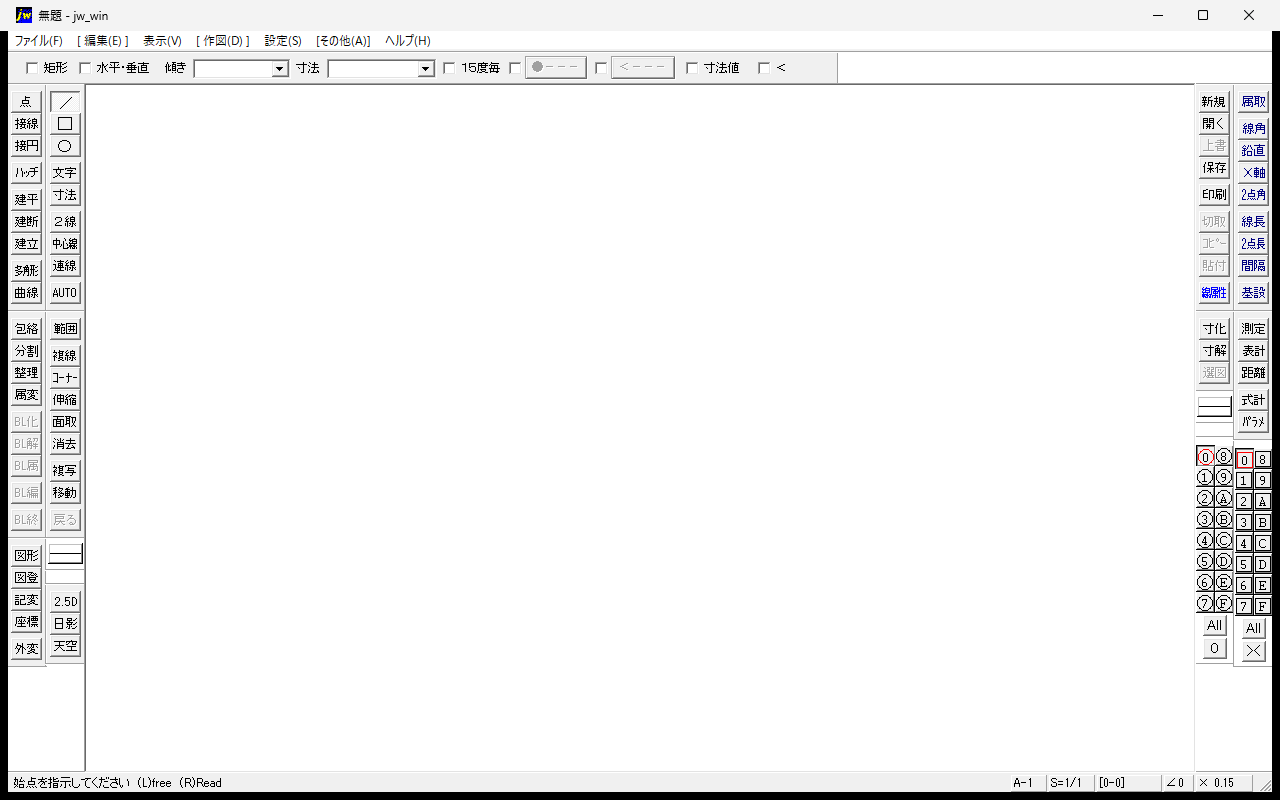
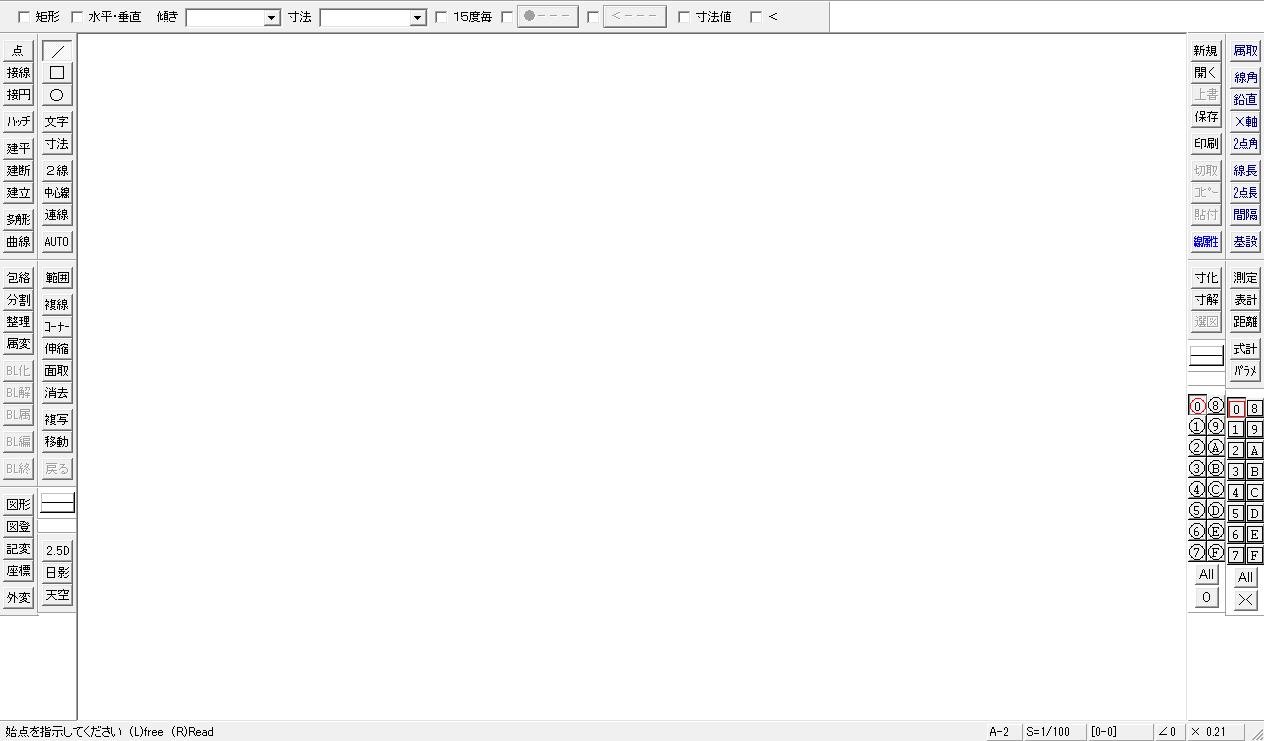
画素一致の正解を GDI 経路に決めて、枠を実測する
Direct2D を切った GDI 経路を基準にする（tools/refcfg.ps1 が
HKCU\Software\Jw_cad\jw_win\View\Direct2d を 0 にする）。D2D のアンチエイリアスと
DirectWrite の字形はブラウザで再現できないので、そちらに合わせるのは無理がある。

基準はクライアント領域 1264×741（tools/shot.ps1 -Client）。タイトルバーと
メニューバーは OS が描く非クライアント領域なので外した。ついでに、窓が
作業領域より高いと画面下端にタスクバーが写り込んでいたのも直した。

実測した枠の座標とシステム色、ツールバーのビットマップの担当（基準 id が
24×15 で +9 の 120×75 まで 10 段）を RESUME に。ボタンの絵は 1 bit の
ビットマップ転送でアンチエイリアスが無いので、フォントを合わせなくても
ツールバーは画素一致する見込み。

Changed region(s): [[0.0, 0.0, 1.0, 1.0]]

diff --git a/RESUME.md b/RESUME.md
@@ -14,7 +14,27 @@
 | 済 | 原典の基準画像（`tools/shot.ps1`、`docs/ref_*.png`） |
 | 済 | 逆コンパイル 25,983 関数 / 99.8% 成功 / 26 MB。クラスごとに仕分け済み |
 | 済 | `CJw_winDoc::Serialize` と `CData*::Serialize` 8 本の位置 |
-| 次 | `.jww` の形を閉じる、枠の再現、描画 |
+| 済 | 画素一致の正解を **Direct2D オフ（GDI）**に決定。基準画像も取り直し済み |
+| 済 | 基準は**クライアント領域** 1264×741（`docs/ref_start.png`）。枠と画布の座標を実測 |
+| 済 | 左右ツールバーのビットマップの担当を特定（下記） |
+| 次 | **枠を描く C を書く**。`src/fb.*`（フレームバッファ）→ `src/ui.*`（枠）→ 画素比較 |
+
+## 明日ここから
+
+**枠（メニュー・ツールバー・ステータスバー）から**、という方針で合意済み。
+`docs/ref_start.png`（クライアント領域 1264×741、Direct2D オフ）が正解です。
+
+順番はこう考えています。
+
+1. `tools/mkres.py` —— `.rsrc` のツールバー帯（4bpp）とレイアウトを C の配列に焼く。
+   生成物は `src/gen/` に置いて **.gitignore**（原典由来なので）。
+2. `src/fb.c/h` —— 32bit のフレームバッファと、矩形塗り・3D 枠・4bpp 転送。
+3. `src/ui.c/h` —— 枠を描く。まず背景・画布の窪み枠・区切り線・ステータスバー、
+   次にボタン。
+4. `tests/frame.c` —— PNG に出す。`tools/cmp.py` で `docs/ref_start.png` と
+   1 画素ずつ比べて不一致数を出す。**この数字を減らしていくのが作業**です。
+
+`tools/cmp.py` はまだありません。最初に書くとよいです。
 
 ## 次にやること
 
@@ -29,10 +49,9 @@
 2. **枠を画素まで合わせる。** メニュー・ツールバー・レイヤバー・ステータスバーは
    リソースにそのまま入っているので、逆コンパイルを待たずに組めます。
    `docs/ref_start.png`（1280×800、図面なし）が正解です。
-3. **描画経路をどちらに合わせるか決める。** 10.x は既定で Direct2D です。
-   移植の正解は **Direct2D を切った GDI 経路**にするのが筋
-   （[設定]→[基本設定]→[一般(1)]）。決定的で、アンチエイリアスを
-   真似しなくて済みます。決めたらこの行を消してください。
+3. **描画経路は Direct2D オフ（GDI）に決定済み。**
+   `tools/refcfg.ps1` が `HKCU\Software\Jw_cad\jw_win\View\Direct2d` を 0 にします。
+   基準画像はこの状態で撮ってあります。
 4. **`CZukei*` を 1 つずつ。** 55 クラスあります。メニューと 1 対 1 なので
    どれから手を付けても独立しています。
 
@@ -124,3 +143,72 @@ MFC が独自に使う 2 つは `afxres.h` にあります。`tools/rsrc.py` は
 ツールバーは同じ並びが **16×15 から 120×75 まで 12 段階**入っています。
 ボタンの拡大はビットマップを引き伸ばしているのではなく、大きさごとに
 別のビットマップを持っているということです。移植でもそのまま使えます。
+
+## 枠の実測（`docs/ref_start.png`、クライアント領域 1264×741）
+
+窓は 1280×800 で起動し、クライアントは **1264×741**。
+すべてこのクライアント座標です。
+
+| | |
+|---|---|
+| 上のコントロールバー | y 0〜31。`CDialogBar`。中身はコマンドごとに別のダイアログ資源 |
+| 画布（`CJw_winView`） | **x 78〜1185、y 34〜719**。窪み枠が y=32 に `#A0A0A0`、y=33 に `#696969` |
+| 左ツールバー | x 0〜77。ボタン 2 列、幅 **31**、高さ **22**（x 3〜33 と 42〜72） |
+| 右ツールバー | x 1190〜1263 |
+| ステータスバー | 下端 |
+
+Windows 11 の既定のシステム色がそのまま出ています。移植側は決め打ちでよいはず。
+
+| | |
+|---|---|
+| `#F0F0F0` (240) | `COLOR_BTNFACE` 背景とボタン面 |
+| `#A0A0A0` (160) | `COLOR_BTNSHADOW` |
+| `#696969` (105) | `COLOR_3DDKSHADOW` |
+| `#FFFFFF` | `COLOR_BTNHIGHLIGHT`、画布 |
+| `#E3E3E3` (227) | ボタンの内側の枠（テーマ） |
+
+**ボタンの絵は 1 bit のビットマップ転送で、アンチエイリアスがありません。**
+拡大して確かめました。つまり**フォントを合わせなくてもツールバーは画素一致します**
+——文字に見えるものは資源に焼かれた絵だからです。
+選択中のボタン（起動直後なら「／」）は市松模様の地になります。
+
+## ツールバーのビットマップの担当
+
+`.rsrc` の `RT_TOOLBAR`(241) と `BITMAP` は**同じ id** で対になっています。
+**基準 id が 24×15 で、+1 するごとに 1 段大きくなり、+9 の 120×75 まで 10 段**
+あります（`464` が 24×15 なら `473` が 120×75）。
+画面のボタンの大きさを変えると、引き伸ばすのではなく別の帯に差し替わります。
+
+| 基準 id | 中身 |
+|---|---|
+| `464` | 新規 開く 上書 保存 印刷 切取 コピー 貼付 線属性 |
+| `474` | ／ □ ○ 文字 寸法 ２線 中心線 連線 AUTO |
+| `484` | 範囲 複線 コーナー 伸縮 面取 消去 複写 移動 戻る |
+| `494` | 点 接線 接円 ハッチ 建平 建断 建立 多能 曲線 |
+| `504` | 図形 図登 記変 座標 外変 測定 表計 距離 式計 パラメ |
+| `514` | 属取 線角 鉛直 X軸 2点角 線長 2点長 間隔 基設（青） |
+| `524` | 包絡 分割 整理 属変 BL化 BL解 BL属 BL編 BL終 |
+| `453` | 進む ソリッド TAG 画像 中心線 上円1/4 … Test SPEED |
+| `574` | ①〜⑩ |
+| `401` `402` | MFC 標準（新規・開く・保存・印刷・切取・コピー・貼付・元に戻す・バージョン情報） |
+
+左ツールバーは `494`（1 列目上）＋`524`（1 列目下）＋`474`（2 列目上）＋
+`484`（2 列目下）、右は `464`＋`514`＋`504` あたりの組み合わせに見えます。
+**どのバーがどの帯を何個ずつ使うかは未確定**なので、明日は実測と
+`CMainFrame::OnCreate` の逆コンパイルで詰めること。
+
+## 上のコントロールバーはコマンドごとに別のダイアログ
+
+`CDialogBar` で、資源はコマンドごとに 1 枚です。起動直後（線コマンド）は
+**`DIALOG 280`**（462×16 ダイアログ単位、フォント 9pt ＭＳ Ｐゴシック）。
+中身は「矩形」「水平･垂直」「傾き」＋コンボ、「寸法」＋コンボ、「１５度毎」…。
+
+**ダイアログ単位から画素への換算はフォントに依存します**。ここだけは
+字形ではなく**配置**がフォントに引っ張られるので、基準画像から実測した
+換算係数を決め打ちにするのが現実的です。
+
+## 設定の置き場所
+
+`.ini` ではなく**レジストリ** `HKCU\Software\Jw_cad\jw_win` です
+（`AutoMode`、`View` などのサブキー）。`View\Direct2d` が描画経路の切り替え。
+移植側が同じ絵を出すには、色や線幅の設定もここから読む必要があります。
